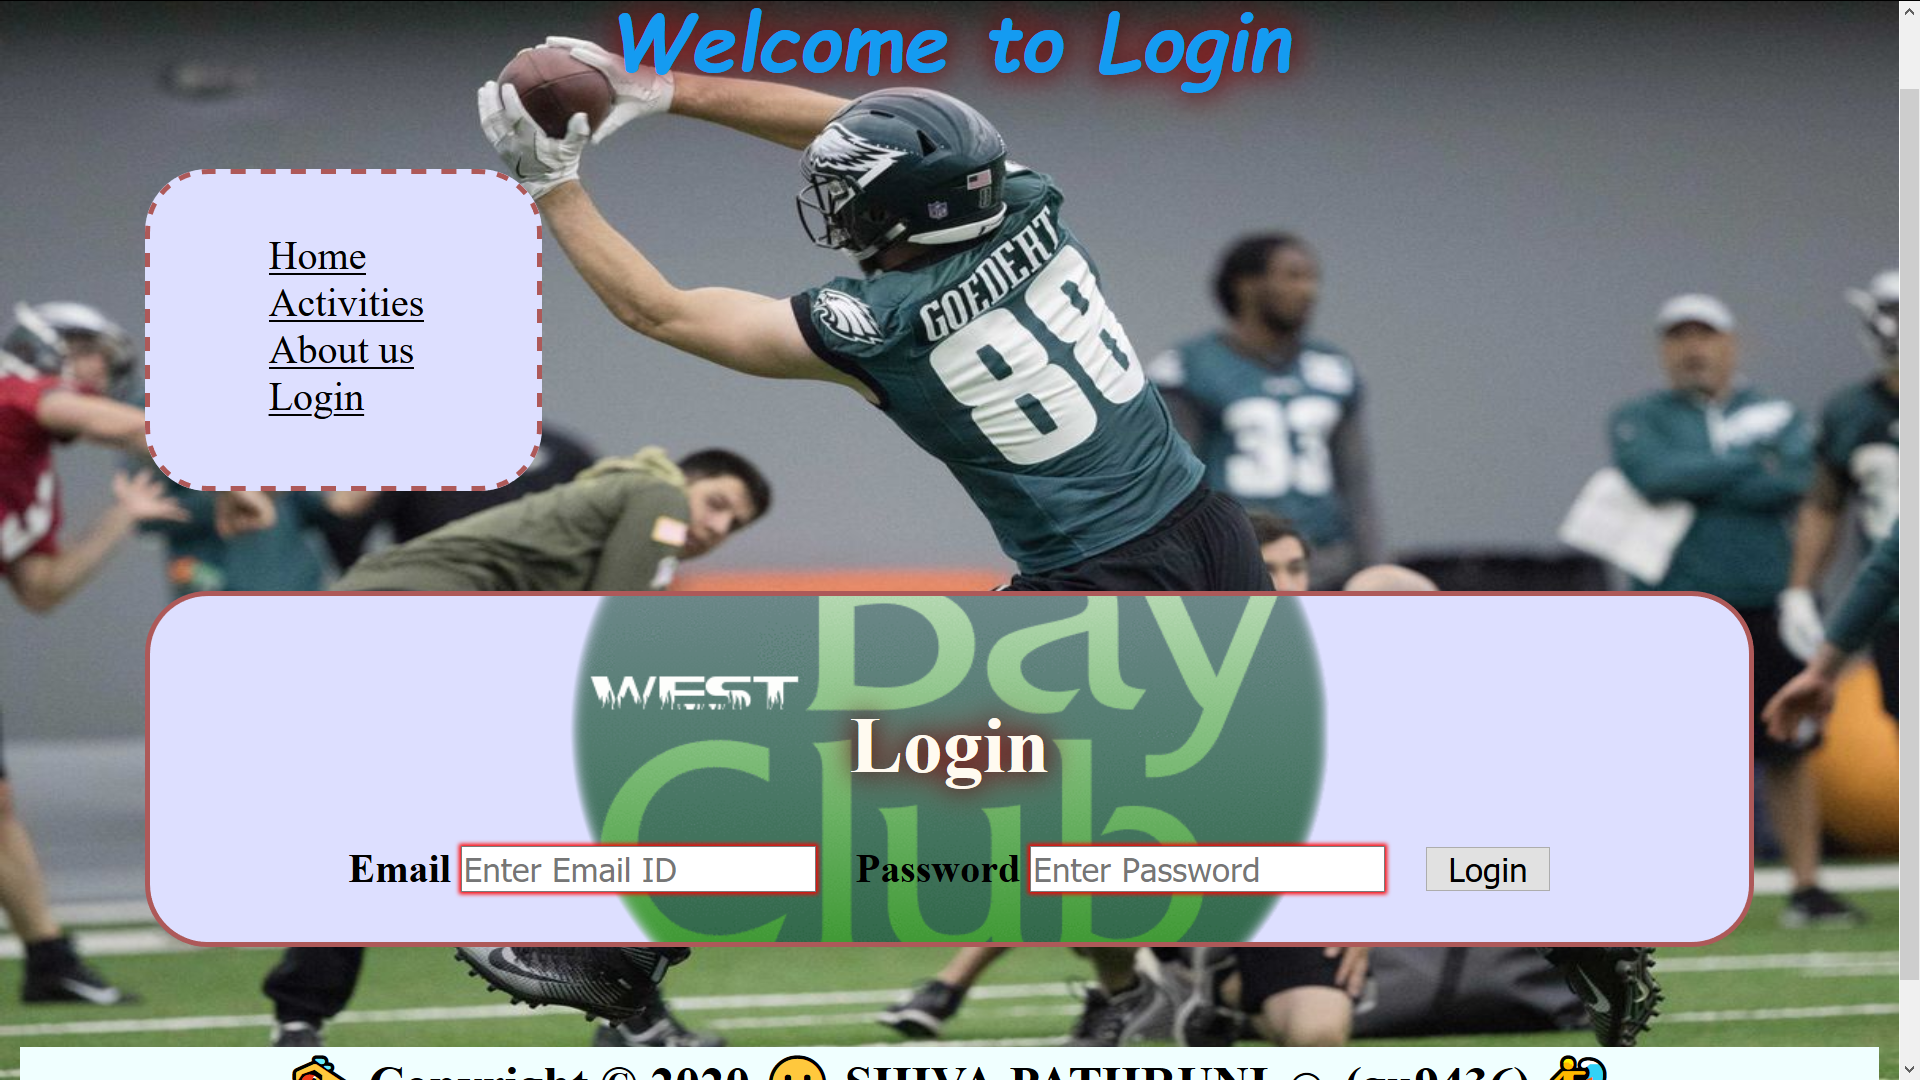
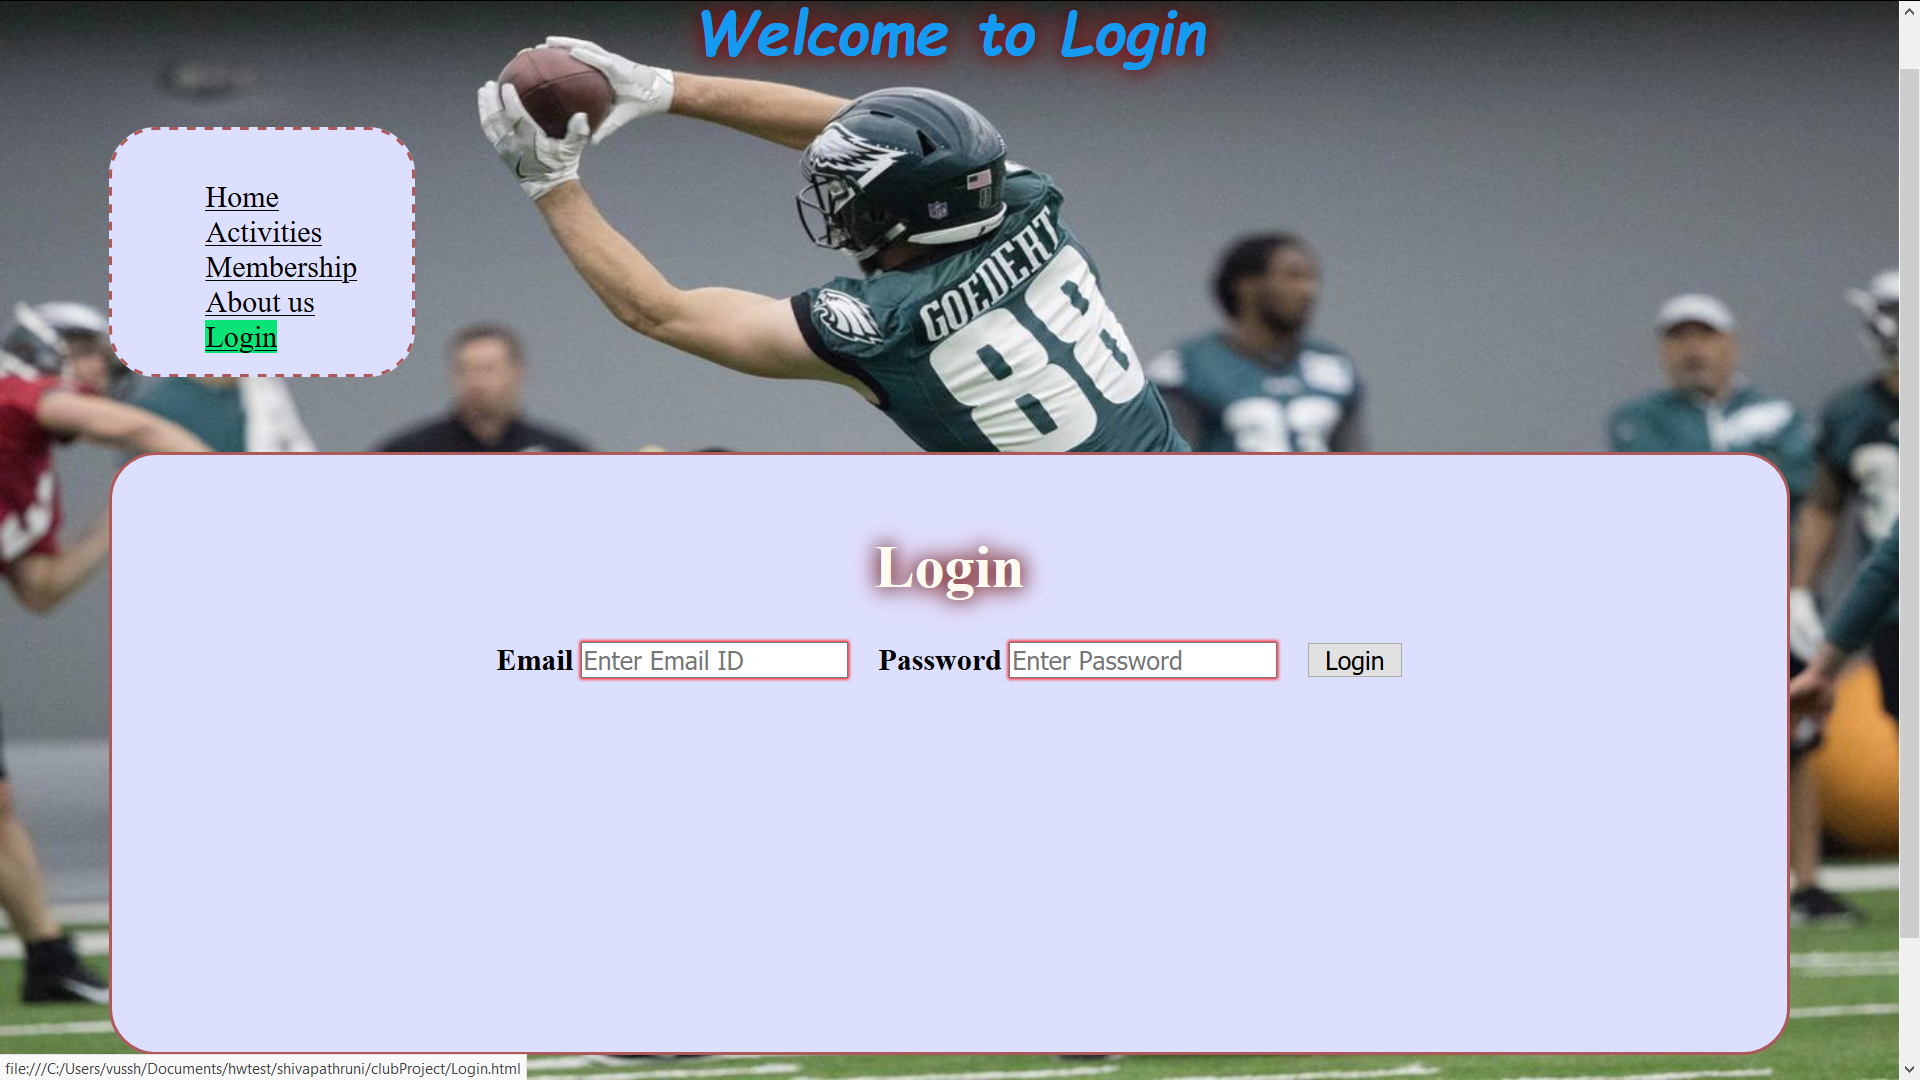
hw4

diff --git a/clubProject/activities.html b/clubProject/activities.html
@@ -3,9 +3,12 @@
 <html>
 	<head>
         <link rel="stylesheet" type="text/css" href="club.css">
+        <meta charset="utf-8"/>
 		<title>
 		Club_Activities page
 		</title>
+    <script src="eventData.js"></script>
+    <script src="activities.js"></script>
 	</head>
 	<body>
         <div class="Home_body_act">
@@ -15,6 +18,7 @@
             <ul class="k">
                 <li><a href="index.html">Home</a></li>
                 <li><a href="activities.html">Activities</a></li>
+                <li><a href="membership.html">Membership</a></li>
                 <li><a href="about.html">About us</a></li>
                 <li><a href="Login.html">Login</a></li>
             </ul>
@@ -24,10 +28,23 @@
             <h1 align=center> Welcome to the Club Activities </h1>
             <p>This web site keeps students up to date on what’s happening on campus outside the classroom, featuring a wide range of activities of student clubs and circles, such as recent results and upcoming games of sports groups, event schedules of music groups and research presentations of academic groups. Students can also find information on extracurricular programs organized by the Student Support Services Center, as well as movies, plays and concerts offered on campus.<br> </p>
             <p>We offer many activity groups like Art, Cheering supporters, cultural, Drama, Image, Light Music, Media, Musical instrument, Photography, Traditional performing arts, Indoor sports, Outdoor sports, Mountain climbing, Off-campus sports and take Team Building Activities. </p>
-            <p>---For example if you take Team Building Activities which includes:</p>
+<!--            <p>---For example if you take Team Building Activities which includes:</p>-->
             <img src="golf.png" alt="golf" width="300" height="300" align=left>
             <img src="cricket.png" alt="cricket" width="300" height="300" align=right>
-            <h7><p align=center><b> <br><br>1. Zombie Escape  <br>2. Battle of the Airbands  <br>3. A Shrinking Vessel  <br>4. Back-to-Back Drawing  <br>5. Office Trivia  <br>6. Marshmallow Spaghetti Tower  <br>7. Community Service  <br>8. Salt and Pepper  <br>9. Masterpiece Murals  <br>10. Afternoon at the Races  <br>11. Toxic Waste  <br>12. Company Coat of Arms  <br>13. Campfire/Memory Wall  <br>14. Frostbite  <br>15. Minefield </P></h7>
+            <section id="act_section_main">
+                <h2 align=center>Activity Schedule</h2>
+                <table border="2px" style="border-block-color: cyan;border-right-color: aqua;border-left-color: aqua;">
+                    <thead>
+                        <tr>
+                            <td><b>Event</td>
+                            <td><b>Dates</td>
+                        </tr>
+                    </thead>
+                    <tbody></tbody>
+                </table>
+            </section>
+            
+            <!--<h7><p align=center><b> <br><br>1. Zombie Escape  <br>2. Battle of the Airbands  <br>3. A Shrinking Vessel  <br>4. Back-to-Back Drawing  <br>5. Office Trivia  <br>6. Marshmallow Spaghetti Tower  <br>7. Community Service  <br>8. Salt and Pepper  <br>9. Masterpiece Murals  <br>10. Afternoon at the Races  <br>11. Toxic Waste  <br>12. Company Coat of Arms  <br>13. Campfire/Memory Wall  <br>14. Frostbite  <br>15. Minefield </P></h7>-->
 		</main>
         <footer>
             <P>  🏊 <!--127946 U+1f3ca--> Copyright © 2020  &#x1F600 SHIVA PATHRUNI ☺ (gu9436) 🏄<!-- 127940 U+1f3c4 --></P> 

diff --git a/clubProject/membership.html b/clubProject/membership.html
@@ -1,0 +1,74 @@
+<!DOCTYPE html>
+<html lang="en">
+
+<html>
+	<head>
+        <meta charset="utf-8"/>
+        <meta name="viewport" content="width=device-width, initial-scale=1">
+        <link rel="stylesheet" type="text/css" href="club.css">
+		<title>
+		Club_Activities page
+		</title>
+<style>
+
+</style>
+	</head>
+	<body>
+        
+        <div class="Home_body_mem">
+		<header>
+            <h1>Welcome to Login</h1>
+        <nav>
+            <ul class="k">
+                <li><a href="index.html">Home</a></li>
+                <li><a href="activities.html">Activities</a></li>
+                <li><a href="membership.html">Membership</a></li>
+                <li><a href="about.html">About us</a></li>
+                <li><a href="Login.html">Login</a></li>
+            </ul>
+        </nav>
+        </header>
+		<main>
+            <h1>Apply Now!</h1>
+<div id="id01" class="modal">
+  <form class="modal-content animate" method="post">
+    <div class="container">
+        <label for="uname"><b>Name:</b></label>
+        <input type="text" placeholder="Enter your Name" name="uname" required>
+      <label for="ename"><b>Email:</b></label>
+      <input type="email" placeholder="Enter Email ID" name="ename" required>
+        <label for="bname"><b>Number/Brand:</b></label>
+        <input type="text" placeholder=" " name="bname" required>
+  <label for="lname">Level:</label>
+  <select id="level_id" name="lname">
+    <option value="Beginner">Beginner</option>
+    <option value="Intermediate">Intermediate</option>
+    <option value="Proficient">Proficient</option>
+    <option value="Expert">Expert</option>
+
+  </select>
+        <!--        <label for="lname"><b>Level:</b></label>
+        <input type="text" placeholder=" " name="lname" required>-->
+        <label for="cname"><b>Comments:</b></label>
+        <textarea name="comments" id="comments" style="width:200px; height:150px"></textarea>
+        
+      <button type="button">Sign me up!</button>
+<!--      <label>
+        <input type="checkbox" checked="checked" name="remember"> Remember me
+      </label>
+    </div>
+    <div class="container" style="background-color:#f1f1f1">
+      <span class="psw">Forgot <a href="#">password?</a></span>
+    </div>-->
+  </form>
+      </div>
+		</main>
+        <footer>
+            <P>  🏊 <!--127946 U+1f3ca--> Copyright © 2020  &#x1F600 SHIVA PATHRUNI ☺ (gu9436) 🏄<!-- 127940 U+1f3c4 --></P> 
+        </footer> 
+        </div> 
+            
+
+
+	</body>
+</html>

diff --git a/clubProject/about.html b/clubProject/about.html
@@ -3,7 +3,8 @@
 <html>
 	<head>
         <link rel="stylesheet" type="text/css" href="club.css">
-		<title>
+        <meta charset="utf-8"/>
+        <title>
 		about page
 		</title>
 	</head>
@@ -15,13 +16,14 @@
             <ul class="k">
                 <li><a href="index.html">Home</a></li>
                 <li><a href="activities.html">Activities</a></li>
+                <li><a href="membership.html">Membership</a></li>
                 <li><a href="about.html">About us</a></li>
                 <li><a href="Login.html">Login</a></li>
             </ul>
         </nav>    
         </header>
 		<main id="about_main">
-            <h1 align=center> Contact Details </h1><br>
+            <h1 align=center> Contact Details </h1><br><br><br><br><br><br><br><br><br>
             <p> Historically, clubs occurred in all ancient states of which we have detailed knowledge. Once people started living together in larger groups, there was need for people with a common interest to be able to associate despite having no ties of kinship. Organizations of the sort have existed for many years, as evidenced by Ancient Greek clubs and associations (collegia) in Ancient Rome.<br> </P>
             <h2>Contact</h2>
             <p> Mobile: 1 (510)-XXX-XXXX<br>spathruni@horizon.csueastbay.edu<br><br>       

diff --git a/clubProject/Login.html b/clubProject/Login.html
@@ -14,24 +14,16 @@
 /*
 body {font-family: Arial, Helvetica, sans-serif;}
 */
-
-/* Full-width input fields */
-
-
-/* Extra styles for the cancel button */
 /*.cancelbtn {
   width: auto;
   padding: 10px 18px;
   background-color: #f44336;
 }*/
-
-/* Center the image and position the close button */
 /*.imgcontainer {
   text-align: center;
   margin: 24px 0 12px 0;
   position: relative;
 }
-
 img.avatar {
   width: 40%;
   border-radius: 50%;
@@ -85,7 +77,6 @@ span.psw {
   float: right;
   padding-top: 16px;
 }*/
-/* Change styles for span and cancel buton on extra small screens */
 /*@media screen and (max-width: 300px) {
   span.psw {
      display: block;
@@ -99,13 +90,14 @@ span.psw {
 	</head>
 	<body>
         
-        <div class="Home_body_act">
+        <div class="Home_body_log">
 		<header>
             <h1>Welcome to Login</h1>
         <nav>
             <ul class="k">
                 <li><a href="index.html">Home</a></li>
                 <li><a href="activities.html">Activities</a></li>
+                <li><a href="membership.html">Membership</a></li>
                 <li><a href="about.html">About us</a></li>
                 <li><a href="Login.html">Login</a></li>
             </ul>

diff --git a/clubProject/eventData.js b/clubProject/eventData.js
@@ -1,0 +1,9 @@
+
+events = [{"name": "Mountain climbing",
+           "dates": ["March 1st", "March 2nd", "March 3rd", "March 4th", "March 5th", "March 6th", "March 7th", "March 8th", "March 9th", "Maarch 10th", "etc..."]},
+         {"name": "Light Music",
+          "dates": ["April 1st", "April 2nd", "April 3rd", "April 4th", "April 5th"]},
+         {"name": "Photography", "dates": ["Weekends in June and July"]},
+         {"name": "Drama",
+          "dates": ["May 1st", "May 2nd", "May 3rd", "May4th", "May 5th"]}
+         ];

diff --git a/clubProject/activities.js b/clubProject/activities.js
@@ -1,0 +1,9 @@
+
+window.onload = function()    {
+        let table_body= document.getElementById("act_section_main").getElementsByTagName("table")[0].getElementsByTagName("tbody")[0];        
+        tableresult=events.map(function (s) { 
+        return "<tr>"+"<td>"+s.name+"<td>"+s.dates+"</tr>";
+        }).join('');
+        
+        table_body.innerHTML=tableresult;
+    }

diff --git a/clubProject/club.css b/clubProject/club.css
@@ -63,7 +63,7 @@ nav,main {
 main {
     padding-top: 20px;
     padding-right: 20px;
-    padding-bottom: 20px;
+    padding-bottom: 20%;
     padding-left: 20px;
     
 }
@@ -89,4 +89,5 @@ a:hover {
 a:visited {
     color: black;
 }
+
 

diff --git a/clubProject/index.html b/clubProject/index.html
@@ -3,6 +3,7 @@
 <html>
 	<head>
         <link rel="stylesheet" type="text/css" href="club.css">
+        <meta charset="utf-8"/>
 		<title>
 		Index page
 		</title>

diff --git a/README.md b/README.md
@@ -18,6 +18,16 @@
 ## Question2 : Club Events from JavaScript Data
 
 ### (a)
+```
+events = [{"name": "Mountain climbing",
+           "dates": ["March 1st", "March 2nd", "March 3rd", "March 4th", "March 5th", "March 6th", "March 7th", "March 8th", "March 9th", "Maarch 10th", "etc..."]},
+         {"name": "Light Music",
+          "dates": ["April 1st", "April 2nd", "April 3rd", "April 4th", "April 5th"]},
+         {"name": "Photography", "dates": ["Weekends in June and July"]},
+         {"name": "Drama",
+          "dates": ["May 1st", "May 2nd", "May 3rd", "May4th", "May 5th"]}
+         ];
+```
 
 ![Answer2a](images/answer2a.png "icon")
 
@@ -26,6 +36,16 @@
 ![Answer2b](images/answer2b.png "icon")
 
 ### (c)
+```
+window.onload = function()    {
+        let table_body= document.getElementById("act_section_main").getElementsByTagName("table")[0].getElementsByTagName("tbody")[0];        
+        tableresult=events.map(function (s) { 
+        return "<tr>"+"<td>"+s.name+"<td>"+s.dates+"</tr>";
+        }).join('');
+        
+        table_body.innerHTML=tableresult;
+    }
+```
 
 ![Answer2c](images/answer2c.png "icon")
 
